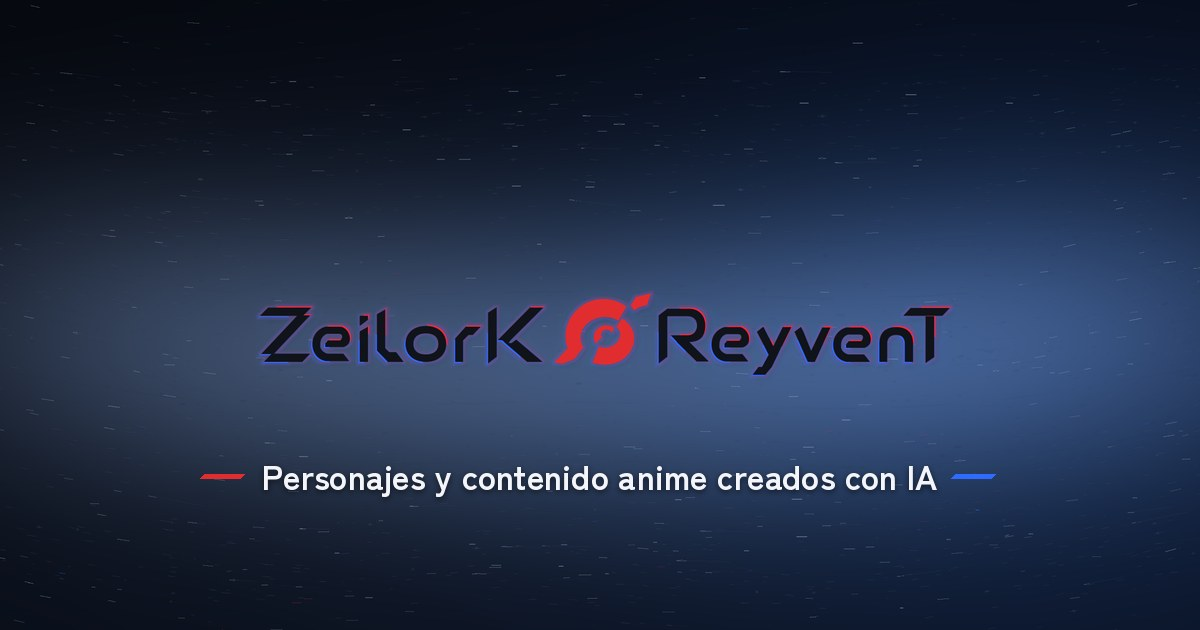
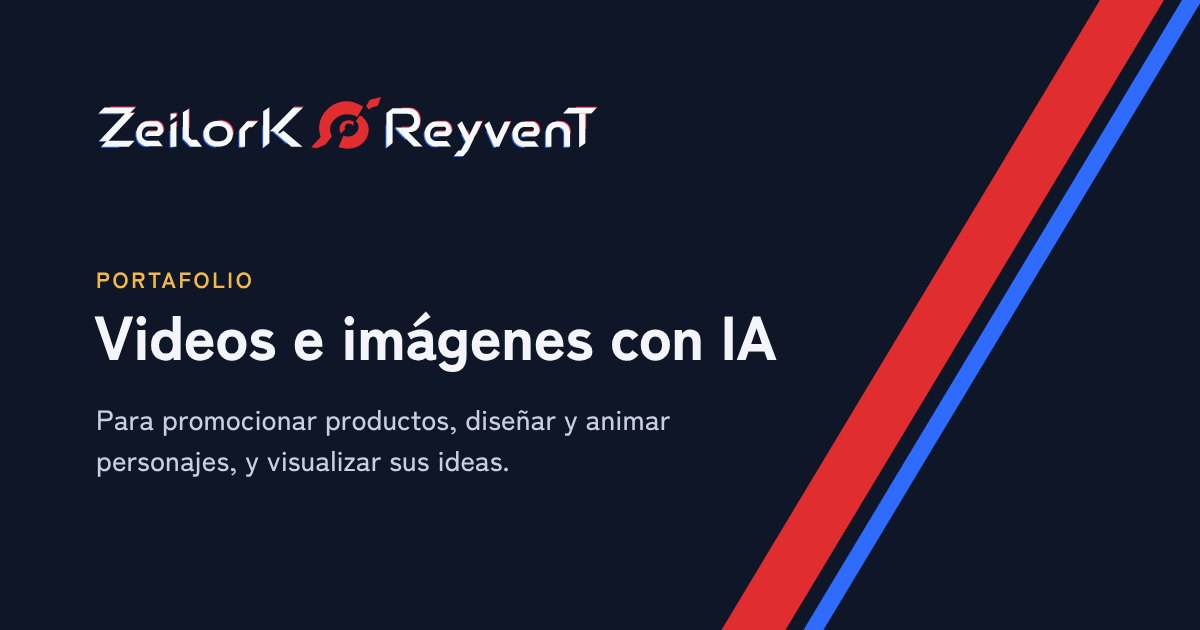
Página principal: portada «Videos e imágenes con IA», precios en colones y menú corregido en iPhone
- Portada con más espacio en el celular y botones lado a lado
- «Servicios y precios» pasa a un resumen con precios «desde» en colones y su equivalente en dólares
- Sale «Proceso» (está en la página de encargos); preguntas y contacto para todos los servicios
- Toda la página de usted; nueva redacción del trabajo de ropa; nueva vista previa del enlace
- El menú «Secciones» ya no se cierra antes de que el toque llegue al enlace en Safari

Claude-Session: https://claude.ai/code/session_0189vgPqYSLf5dmVQo8BQtcm

diff --git a/index.html b/index.html
@@ -3,20 +3,20 @@
 <head>
 <meta charset="utf-8">
 <meta name="viewport" content="width=device-width, initial-scale=1, viewport-fit=cover">
-<title>Personajes anime por encargo · ZeilorK ReyvenT</title>
-<meta name="description" content="Fichas de personajes anime desde $60 USD, ilustraciones y música para tus historias. Creación asistida por IA y revisión personal. Consulta tu proyecto en Fiverr.">
+<title>Videos e imágenes con IA · ZeilorK ReyvenT</title>
+<meta name="description" content="Videos e imágenes con IA para promocionar productos, diseñar y animar personajes, y visualizar sus ideas. Precios fijos en colones y en dólares, con dirección y revisión personal.">
 <meta name="theme-color" content="#0E1628">
 <link rel="canonical" href="https://zeilork-reyvent.github.io/">
 <meta property="og:site_name" content="ZeilorK ReyvenT">
-<meta property="og:title" content="Personajes anime por encargo · ZeilorK ReyvenT">
-<meta property="og:description" content="Fichas técnicas de personajes, ilustraciones, videos y temas musicales originales. Encargos a través de Fiverr.">
+<meta property="og:title" content="Videos e imágenes con IA · ZeilorK ReyvenT">
+<meta property="og:description" content="Videos promocionales, personajes con su ficha técnica, ilustraciones y música, creados con IA. Precios fijos en colones y en dólares.">
 <meta property="og:type" content="website">
 <meta property="og:url" content="https://zeilork-reyvent.github.io/">
 <meta property="og:locale" content="es_LA">
 <meta property="og:image" content="https://zeilork-reyvent.github.io/img/og.jpg">
 <meta property="og:image:width" content="1200">
 <meta property="og:image:height" content="630">
-<meta property="og:image:alt" content="Logo de ZeilorK ReyvenT sobre fondo azul con el texto: Personajes y contenido anime creados con IA">
+<meta property="og:image:alt" content="Logo de ZeilorK ReyvenT con el texto: Videos e imágenes con IA">
 <meta name="twitter:card" content="summary_large_image">
[2 lines of base64/hex data omitted]
@@ -40,7 +40,6 @@
       <a href="#videos">Videos</a>
       <a href="#clientes">Clientes</a>
       <a href="#servicios">Servicios</a>
-      <a href="#proceso">Proceso</a>
       <a href="encargos/">Encargos</a>
     </nav>
     <details class="section-menu" id="section-menu">
@@ -48,7 +47,7 @@
       <nav id="section-links" aria-label="Índice de secciones">
         <a href="#inicio">Inicio</a><a href="#fichas">Fichas de personajes</a>
         <a href="#ilustraciones">Ilustraciones</a><a href="#videos">Videos</a><a href="#clientes">Trabajos para clientes</a>
-        <a href="#servicios">Servicios y precios</a><a href="#proceso">Proceso</a>
+        <a href="#servicios">Servicios y precios</a>
         <a href="#preguntas">Preguntas frecuentes</a><a href="#contacto">Contacto</a><a href="encargos/">Encargos</a>
       </nav>
     </details>
@@ -72,14 +71,13 @@
       </div>
       <div class="hero-content">
         <div class="hero-copy">
-          <p class="eyebrow">Para tus personajes e historias</p>
-          <h1>Diseño de personajes <span>anime por encargo.</span></h1>
-          <p class="hero-description">Fichas de referencia, ilustraciones y música para dar forma a tu mundo. Creadas con IA, con dirección y revisión personal.</p>
+          <h1>Videos e imágenes <span>con IA</span></h1>
+          <p class="hero-description">Para promocionar productos, diseñar y animar personajes, y visualizar sus ideas. Cada encargo lleva mi dirección y revisión personal.</p>
           <div class="hero-actions">
-            <a class="btn" href="#servicios"><span>Ver servicios y precios</span></a>
-            <a class="btn btn-ghost" href="#fichas"><span>Explorar trabajos</span></a>
+            <a class="btn" href="#servicios"><span>Ver tarifas</span></a>
+            <a class="btn btn-ghost" href="#fichas"><span>Ver trabajos</span></a>
           </div>
-          <p class="hero-note">Fichas desde <strong>$60 USD</strong> · Revisiones incluidas</p>
+          <p class="hero-note">Precios fijos · Videos desde <strong>₡12.000</strong> (US$35)</p>
         </div>
         <figure class="hero-preview">
           <a href="#ilustraciones" aria-label="Explorar las ilustraciones de mis personajes">
@@ -96,7 +94,7 @@
     <div class="wrap">
       <div class="sec-head">
         <h2 class="sec">Fichas técnicas</h2>
-        <p class="lead">Seis personajes originales, cada uno con vistas frontal, lateral y posterior, más los detalles del rostro y del vestuario. Toca una ficha para verla ampliada.</p>
+        <p class="lead">Seis personajes originales, cada uno con vistas frontal, lateral y posterior, más los detalles del rostro y del vestuario. Toque una ficha para verla ampliada.</p>
       </div>
       <ul class="grid grid-3 rv">
 <li class="card" style="--i:0"><figure class="fig"><a class="thumb" data-gallery="fichas" data-index="0" aria-label="Ver ampliada: Emily" href="img/emily_full.webp"><img src="img/emily_thumb.webp" width="900" height="506" alt="Ficha técnica de Emily: vistas frontal, lateral y posterior, con detalles del rostro, el peinado y el vestuario" loading="lazy" decoding="async"></a><figcaption class="cap"><b>Emily</b><span>Ficha técnica</span></figcaption></figure></li>
@@ -128,7 +126,7 @@
       <aside class="project-note" aria-labelledby="emily-case-title">
         <div><p class="eyebrow">Proyecto personal · Emily</p><h3 id="emily-case-title">Un personaje, distintas formas de contar su historia.</h3></div>
         <p>La ficha reúne sus vistas y detalles. Las dos escenas con el gato exploran una pequeña secuencia narrativa, mientras que la versión con alas reinterpreta su vestuario. Son muestras de cómo una referencia puede orientar escenas y variantes del mismo personaje.</p>
-        <a class="text-link" href="#servicios">Ver qué puedo crear para tu personaje <span aria-hidden="true">→</span></a>
+        <a class="text-link" href="#servicios">Ver qué puedo crear para su personaje <span aria-hidden="true">→</span></a>
       </aside>
     </div>
   </section>
@@ -139,7 +137,7 @@
     <div class="wrap">
       <div class="sec-head">
         <h2 class="sec">Muestras en video</h2>
-        <p class="lead">Escenas cortas con los personajes en movimiento, con voces y música originales. Dos se reproducen aquí mismo; las demás te llevan a TikTok.</p>
+        <p class="lead">Escenas cortas con los personajes en movimiento, con voces y música originales. Dos se reproducen aquí mismo; las demás lo llevan a TikTok.</p>
       </div>
       <div class="vgrid rv">
 <figure class="vcard card" style="--i:0"><div class="vwrap"><video controls preload="none" poster="img/cover_lugar.webp" playsinline aria-label="Emily y Sharon graban un video juntas en una plaza, con un palo de selfie"><source src="media/lugar-especial.mp4" type="video/mp4"></video><button class="vplay" type="button" aria-label="Reproducir: Emily y Sharon en un lugar especial"><span><svg viewBox="0 0 24 24" aria-hidden="true"><path d="M8 5v14l11-7z"/></svg></span></button></div><figcaption class="cap"><b>Emily y Sharon en un lugar especial</b><span>15 s</span></figcaption></figure>
@@ -188,7 +186,7 @@
           <div class="caso-text">
             <p class="eyebrow">Diseño de ropa</p>
             <h3>Equipo de carreras</h3>
-            <p>Camiseta (frente y espalda) y gorra, y cómo se ven en las prendas. Incluye la foto del carro que aportó la clienta, con la calidad mejorada.</p>
+            <p>Diseños para la camiseta (frente y espalda) y la gorra, con vistas de cómo lucen en las prendas. También mejoré la calidad de la foto del carro que aportó la clienta.</p>
             <p class="caso-meta">Los logos, la placa y los símbolos se difuminaron para esta muestra.</p>
           </div>
         </article>
@@ -217,76 +215,20 @@
     <div class="wrap">
       <div class="sec-head">
         <h2 class="sec">Servicios y precios</h2>
-        <p class="lead">Precios en dólares estadounidenses. Los encargos se gestionan a través de Fiverr.</p>
+        <p class="lead">Precios fijos en colones; desde otros países, en dólares por PayPal.</p>
       </div>
-      <div class="svc-grid">
-        <article class="svc main">
-          <h3>Fichas técnicas de personajes</h3>
-          <p>Una referencia visual de tu personaje: vistas frontal, lateral y posterior, primer plano y detalles de accesorios. Entrega en PNG de alta resolución, según lo descrito en mi gig de Fiverr.</p>
-          <div class="tiers">
-            <div class="tier">
-              <h4>Básico</h4><p class="tier-purpose">Para definir la referencia de tu personaje.</p>
-              <div class="amt">$60<small>USD</small></div>
-              <ul><li>1 ficha técnica con tres vistas</li><li>Primer plano y detalles de accesorios</li><li>Entrega en 7 días</li><li>1 revisión</li></ul>
-              <a class="btn btn-ghost btn-sm" href="https://es.fiverr.com/s/9d954eY" target="_blank" rel="noopener" aria-label="Ver paquete Básico en Fiverr (abre otra pestaña)"><span>Ver Básico en Fiverr <span aria-hidden="true">↗</span></span></a>
-            </div>
-            <div class="tier">
-              <h4>Estándar</h4><p class="tier-purpose">Para mostrar otra faceta de su personalidad.</p>
-              <div class="amt">$75<small>USD</small></div>
-              <ul><li>Todo lo del paquete Básico</li><li>1 primer plano con otra expresión</li><li>Entrega en 6 días</li><li>2 revisiones</li></ul>
-              <a class="btn btn-ghost btn-sm" href="https://es.fiverr.com/s/9d954eY" target="_blank" rel="noopener" aria-label="Ver paquete Estándar en Fiverr (abre otra pestaña)"><span>Ver Estándar en Fiverr <span aria-hidden="true">↗</span></span></a>
-            </div>
-            <div class="tier">
-              <h4>Premium</h4><p class="tier-purpose">Para ampliar los detalles de su diseño.</p>
-              <div class="amt">$100<small>USD</small></div>
-              <ul><li>Todo lo del paquete Estándar</li><li>1 hoja de referencia de accesorios</li><li>Entrega en 5 días</li><li>3 revisiones</li></ul>
-              <a class="btn btn-ghost btn-sm" href="https://es.fiverr.com/s/9d954eY" target="_blank" rel="noopener" aria-label="Ver paquete Premium en Fiverr (abre otra pestaña)"><span>Ver Premium en Fiverr <span aria-hidden="true">↗</span></span></a>
-            </div>
-          </div>
-          <p class="service-note">Los botones abren el mismo gig: allí puedes elegir tu paquete. Los plazos indicados son los normales; la entrega rápida tiene un costo adicional. Antes de pedir, confirma en Fiverr las condiciones vigentes.</p>
-        </article>
-        <article class="svc">
-          <h3>Ilustraciones de personajes en escenas</h3>
-          <p>Tu personaje en una escena a medida, tomando su ficha como referencia para cuidar su identidad visual.</p>
-          <div class="price">Precio según el proyecto</div>
-          <a class="btn btn-ghost btn-sm" href="https://es.fiverr.com/zeilork_reyvent" target="_blank" rel="noopener"><span>Consultar una ilustración ↗</span></a>
-        </article>
-        <article class="svc">
-          <h3>Temas musicales originales para personajes, creados con IA</h3>
-          <p>Una canción original que refleje la personalidad de tu personaje, para tus videos o tu proyecto.</p>
-          <div class="price">Precio según el proyecto</div>
-          <a class="btn btn-ghost btn-sm" href="https://es.fiverr.com/zeilork_reyvent" target="_blank" rel="noopener"><span>Consultar un tema musical ↗</span></a>
-          <button class="text-button" id="btn-sample" type="button"><span>Escuchar una muestra</span>
-            <svg viewBox="0 0 24 24" fill="currentColor" aria-hidden="true"><path d="M8 5v14l11-7z"/></svg></button>
-        </article>
-        <article class="svc">
-          <h3>Proyectos a medida, con consulta previa</h3>
-          <p>Cuéntame qué necesitas crear y para qué lo usarás. Revisamos la viabilidad y acordamos alcance, precio y fecha antes de empezar.</p>
-          <a class="link" href="#contacto">Cuéntame tu idea</a>
-        </article>
-        <article class="svc" style="grid-column:1/-1">
-          <h3>Videos e imágenes con IA</h3>
-          <p>Para promocionar productos, diseñar y animar personajes, y visualizar tus ideas. Precios fijos, confirmación del encargo antes de generar y formulario en línea.</p>
-          <a class="btn btn-ghost btn-sm" href="encargos/"><span>Ver tarifas y hacer un encargo <span aria-hidden="true">→</span></span></a>
-        </article>
+      <ul class="svc-resumen">
+        <li><span class="svc-n"><b>Videos con IA</b><small>De 4 a 30 segundos, en 720p o 1080p</small></span><span class="svc-p"><b><small>desde</small> ₡12.000</b><span class="usd">US$35</span></span></li>
+        <li><span class="svc-n"><b>Imágenes</b><small>De productos, de personajes o de sus ideas</small></span><span class="svc-p"><b><small>desde</small> ₡6.000</b><span class="usd">US$20</span></span></li>
+        <li><span class="svc-n"><b>Personaje con ficha técnica</b><small>2 propuestas de diseño, ficha completa y 4 expresiones</small></span><span class="svc-p"><b>₡45.000</b><span class="usd">US$120</span></span></li>
+        <li><span class="svc-n"><b>Música, narración y efectos</b><small>En archivos aparte, para agregarlos a sus videos</small></span><span class="svc-p"><b><small>desde</small> ₡3.000</b><span class="usd">US$10</span></span></li>
+      </ul>
+      <div class="svc-acciones">
+        <a class="btn" href="encargos/"><span>Ver todas las tarifas y hacer un <span class="nw">encargo <span aria-hidden="true">→</span></span></span></a>
+        <button class="text-button" id="btn-sample" type="button"><span>Escuchar una muestra de música</span>
+          <svg viewBox="0 0 24 24" fill="currentColor" aria-hidden="true"><path d="M8 5v14l11-7z"/></svg></button>
       </div>
-    </div>
-  </section>
-
-  <div class="divider" aria-hidden="true"></div>
-
-  <section class="section" id="proceso">
-    <div class="wrap">
-      <div class="sec-head">
-        <h2 class="sec">Proceso de trabajo</h2>
-        <p class="lead">Cuatro pasos, sin sorpresas.</p>
-      </div>
-      <ol class="steps">
-        <li class="step" style="--i:0"><span class="n" aria-hidden="true">1</span><h3>Me cuentas tu idea</h3><p>Qué personaje o contenido necesitas, para qué lo quieres y qué referencias tienes.</p></li>
-        <li class="step" style="--i:1"><span class="n" aria-hidden="true">2</span><h3>Acordamos los detalles</h3><p>Reviso tus referencias y confirmo alcance, archivos, precio y fecha antes de empezar.</p></li>
-        <li class="step" style="--i:2"><span class="n" aria-hidden="true">3</span><h3>Creo el contenido</h3><p>Genero, reviso y ajusto el material hasta que coincide con lo acordado.</p></li>
-        <li class="step" style="--i:3"><span class="n" aria-hidden="true">4</span><h3>Lo entrego con revisiones incluidas</h3><p>Recibes los archivos finales y ajustamos lo que haga falta dentro de las revisiones de tu paquete.</p></li>
-      </ol>
+      <p class="svc-fiverr">¿Prefiere contratar por Fiverr? Ahí también ofrezco las fichas de personajes. <a class="text-link" href="https://es.fiverr.com/s/9d954eY" target="_blank" rel="noopener">Ver en Fiverr <span aria-hidden="true">↗</span><span class="sr"> (abre otra pestaña)</span></a></p>
     </div>
   </section>
 
@@ -294,12 +236,14 @@
 
   <section class="section" id="preguntas">
     <div class="wrap faq-wrap">
-      <div class="sec-head"><p class="eyebrow">Antes de encargar</p><h2 class="sec">Preguntas frecuentes</h2><p class="lead">Lo esencial para preparar tu idea.</p></div>
+      <div class="sec-head"><p class="eyebrow">Antes de encargar</p><h2 class="sec">Preguntas frecuentes</h2><p class="lead">Lo esencial para preparar su idea.</p></div>
       <div class="faq-list">
-        <details><summary>¿Necesito tener un dibujo o referencias?</summary><p>No es obligatorio. Puedes empezar con una descripción de la personalidad, la historia y el vestuario del personaje. Si tienes dibujos o imágenes de referencia, también ayudan a entender lo que buscas.</p></details>
-        <details><summary>¿Qué archivos recibiré con una ficha?</summary><p>Archivos PNG de alta resolución. Si necesitas una resolución concreta, otro formato o un archivo editable, consúltamelo antes de pedir para confirmar si puedo entregarlo.</p></details>
-        <details><summary>¿Cómo se utilizan las revisiones?</summary><p>Cada paquete indica cuántas revisiones incluye. Antes de empezar acordamos el diseño y el alcance; si quieres cambiar la idea inicial o añadir material, lo revisamos juntos para confirmar qué requiere.</p></details>
-        <details><summary>¿Las imágenes se crean con IA?</summary><p>Sí. Yo dirijo la creación, selecciono los resultados y reviso los detalles. La inteligencia artificial forma parte del proceso y está indicada tanto aquí como en mi servicio de Fiverr.</p></details>
+        <details><summary>¿Necesito tener imágenes o referencias?</summary><p>No es obligatorio: puede partir de una idea. Si tiene fotos del producto o dibujos del personaje, ayudan a que el resultado se parezca a lo que busca.</p></details>
+        <details><summary>¿Cuánto tarda un encargo?</summary><p>Suele estar listo de 2 a 4 días después del primer pago. El plazo exacto se lo indico en la confirmación del encargo, antes de cobrarle.</p></details>
+        <details><summary>¿Puedo pedir cambios?</summary><p>Sí. Los personajes incluyen 2 rondas de cambios, y las imágenes sueltas, 1. En los videos, un cambio después de la entrega se hace generando el video de nuevo, con el precio que indican las tarifas.</p></details>
+        <details><summary>¿Qué archivos recibo?</summary><p>Los videos, en MP4; las imágenes y las fichas de personajes, en PNG de alta resolución; la música, la narración y los efectos, en archivos de audio aparte. Si necesita otro formato, consúltemelo antes de encargar.</p></details>
+        <details><summary>¿Cómo se paga?</summary><p>En Costa Rica, por SINPE Móvil; desde otros países, en dólares por PayPal. La mitad se paga al confirmar el encargo, para empezar, y la otra mitad, antes de recibir los archivos finales.</p></details>
+        <details><summary>¿Todo se crea con IA?</summary><p>Sí. Los videos, las imágenes y la música se crean con herramientas de inteligencia artificial, a partir de las fotos o ideas que usted aporta. Yo dirijo cada encargo, elijo los resultados y reviso los detalles.</p></details>
       </div>
     </div>
   </section>
@@ -310,7 +254,7 @@
         <svg class="usym-notice" viewBox="0 0 1095 899" xmlns="http://www.w3.org/2000/svg" aria-hidden="true"><g fill="#E12D2F"><path d="M 52,786 L 194,635 C 139,480 180,311 329,192 C 472,78 675,82 820,190 L 734,340 C 633,279 504,290 414,361 C 325,432 310,539 361,624 L 265,748 L 137,800 Z"/><path d="M 802,331 L 835,365 C 916,446 925,568 857,672 C 773,801 609,837 458,787 L 528,616 C 616,649 705,610 740,538 C 765,487 751,438 712,405 L 768,318 Z"/><path d="M 685,415 C 631,374 554,383 507,431 C 465,474 461,535 492,583 L 557,517 C 544,496 547,468 567,450 C 591,429 626,432 652,453 L 670,469 Z"/><path d="M 918,88 L 1082,47 L 1038,174 L 958,196 L 900,230 L 864,178 Z"/></g></svg>
         <div>
           <h2>Contenido creado con inteligencia artificial</h2>
-          <p>Todo lo que ves en este portafolio se crea con herramientas de inteligencia artificial. En los trabajos para clientes también uso las fotos y materiales que ellos aportan. Yo dirijo cada proyecto: defino los personajes, el estilo y los detalles, y reviso cada resultado antes de entregarlo. Te lo comparto desde el principio porque quiero ser completamente transparente contigo sobre mi forma de trabajar.</p>
+          <p>Todo lo que ve en este portafolio se crea con herramientas de inteligencia artificial. En los trabajos para clientes también uso las fotos y materiales que ellos aportan. Yo dirijo cada proyecto: defino los personajes, el estilo y los detalles, y reviso cada resultado antes de entregarlo. Se lo comparto desde el principio porque quiero ser completamente transparente con usted sobre mi forma de trabajar.</p>
         </div>
       </div>
     </div>
@@ -323,13 +267,15 @@
     <svg class="wm-sym" viewBox="0 0 1095 899" xmlns="http://www.w3.org/2000/svg" aria-hidden="true"><g fill="#E12D2F"><path d="M 52,786 L 194,635 C 139,480 180,311 329,192 C 472,78 675,82 820,190 L 734,340 C 633,279 504,290 414,361 C 325,432 310,539 361,624 L 265,748 L 137,800 Z"/><path d="M 802,331 L 835,365 C 916,446 925,568 857,672 C 773,801 609,837 458,787 L 528,616 C 616,649 705,610 740,538 C 765,487 751,438 712,405 L 768,318 Z"/><path d="M 685,415 C 631,374 554,383 507,431 C 465,474 461,535 492,583 L 557,517 C 544,496 547,468 567,450 C 591,429 626,432 652,453 L 670,469 Z"/><path d="M 918,88 L 1082,47 L 1038,174 L 958,196 L 900,230 L 864,178 Z"/></g></svg>
     <div class="wrap rv">
       <div class="card" style="--i:0"><svg class="usym-cierre" viewBox="0 0 1095 899" xmlns="http://www.w3.org/2000/svg" aria-hidden="true"><g fill="#E12D2F"><path d="M 52,786 L 194,635 C 139,480 180,311 329,192 C 472,78 675,82 820,190 L 734,340 C 633,279 504,290 414,361 C 325,432 310,539 361,624 L 265,748 L 137,800 Z"/><path d="M 802,331 L 835,365 C 916,446 925,568 857,672 C 773,801 609,837 458,787 L 528,616 C 616,649 705,610 740,538 C 765,487 751,438 712,405 L 768,318 Z"/><path d="M 685,415 C 631,374 554,383 507,431 C 465,474 461,535 492,583 L 557,517 C 544,496 547,468 567,450 C 591,429 626,432 652,453 L 670,469 Z"/><path d="M 918,88 L 1082,47 L 1038,174 L 958,196 L 900,230 L 864,178 Z"/></g></svg></div>
-      <h2 class="card" style="--i:1">Cuéntame tu idea</h2>
-      <p class="lead card" style="--i:2">Cuéntame cómo es tu personaje, qué quieres crear y qué referencias tienes. Revisamos juntos el siguiente paso por Fiverr.</p>
+      <h2 class="card" style="--i:1">Cuénteme su idea</h2>
+      <p class="lead card" style="--i:2">Llene la solicitud en la página de encargos o escríbame por WhatsApp. Si prefiere contratar por Fiverr, también estoy ahí.</p>
       <div class="cta-row card" style="--i:3">
-        <a class="btn" href="https://es.fiverr.com/zeilork_reyvent" target="_blank" rel="noopener"><span>Consultar mi proyecto en Fiverr</span>
-          <svg viewBox="0 0 24 24" fill="none" stroke="currentColor" stroke-width="2.2" stroke-linecap="round" stroke-linejoin="round" aria-hidden="true"><path d="M7 17L17 7M9 7h8v8"/></svg></a>
+        <a class="btn" href="encargos/"><span>Hacer un encargo</span></a>
+        <a class="btn btn-ghost" href="https://wa.me/50687464715" target="_blank" rel="noopener" aria-label="Escribirme por WhatsApp (abre otra pestaña)"><span><img class="ico" src="encargos/whatsapp.svg" alt="" width="20" height="20" loading="lazy">WhatsApp</span></a>
+        <a class="btn btn-ghost" href="https://es.fiverr.com/zeilork_reyvent" target="_blank" rel="noopener"><span>Fiverr</span>
+          <svg viewBox="0 0 24 24" fill="none" stroke="currentColor" stroke-width="2.2" stroke-linecap="round" stroke-linejoin="round" aria-hidden="true"><path d="M7 17L17 7M9 7h8v8"/></svg><span class="sr"> (abre otra pestaña)</span></a>
         <a class="btn btn-ghost" href="https://www.tiktok.com/@zeilork_reyvent" target="_blank" rel="noopener"><span>Ver mi TikTok</span>
-          <svg viewBox="0 0 24 24" fill="none" stroke="currentColor" stroke-width="2.2" stroke-linecap="round" stroke-linejoin="round" aria-hidden="true"><path d="M7 17L17 7M9 7h8v8"/></svg></a>
+          <svg viewBox="0 0 24 24" fill="none" stroke="currentColor" stroke-width="2.2" stroke-linecap="round" stroke-linejoin="round" aria-hidden="true"><path d="M7 17L17 7M9 7h8v8"/></svg><span class="sr"> (abre otra pestaña)</span></a>
       </div>
     </div>
   </section>
@@ -339,7 +285,7 @@
 
 <div class="mp" id="mp">
   <div class="mp-panel" id="mp-panel" role="region" aria-label="Reproductor de música" inert>
-    <div class="mp-head"><b>Música original</b><span>Temas creados con IA para mis personajes. Elige cuál escuchar.</span></div>
+    <div class="mp-head"><b>Música original</b><span>Temas creados con IA para mis personajes. Elija cuál escuchar.</span></div>
     <div class="mp-list">
       <button class="mp-track" type="button" data-track="lazos" aria-pressed="false"><span class="mp-eq" aria-hidden="true"><i></i><i></i><i></i></span><b>Lazos sinceros</b><span class="mp-type">Tema tranquilo</span></button>
       <button class="mp-track" type="button" data-track="victoria" aria-pressed="false"><span class="mp-eq" aria-hidden="true"><i></i><i></i><i></i></span><b>Victoria flameante</b><span class="mp-type">Opening instrumental</span></button>
@@ -349,7 +295,7 @@
     <div class="mp-ctrl">
       <button class="mp-btn" id="mp-play" type="button" aria-label="Reproducir" disabled><svg viewBox="0 0 24 24" aria-hidden="true"><path id="mp-play-icon" d="M8 5v14l11-7z"/></svg></button>
       <span class="mp-time" id="mp-time">0:00 / 0:00</span>
-      <button class="mp-btn mp-rep" id="mp-rep" type="button" data-mode="0" title="Sin repetir" aria-label="Repetición: sin repetir. Toca para cambiar el modo"><svg viewBox="0 0 24 24" aria-hidden="true"><g fill="none" stroke="currentColor" stroke-width="2" stroke-linecap="round" stroke-linejoin="round"><path d="M17 2l4 4-4 4"/><path d="M3 11V9a4 4 0 0 1 4-4h14"/><path d="M7 22l-4-4 4-4"/><path d="M21 13v2a4 4 0 0 1-4 4H3"/></g><text class="rep-one" x="12" y="15.4" text-anchor="middle">1</text></svg></button>
+      <button class="mp-btn mp-rep" id="mp-rep" type="button" data-mode="0" title="Sin repetir" aria-label="Repetición: sin repetir. Toque para cambiar el modo"><svg viewBox="0 0 24 24" aria-hidden="true"><g fill="none" stroke="currentColor" stroke-width="2" stroke-linecap="round" stroke-linejoin="round"><path d="M17 2l4 4-4 4"/><path d="M3 11V9a4 4 0 0 1 4-4h14"/><path d="M7 22l-4-4 4-4"/><path d="M21 13v2a4 4 0 0 1-4 4H3"/></g><text class="rep-one" x="12" y="15.4" text-anchor="middle">1</text></svg></button>
     </div>
   </div>
   <div class="mp-row">

diff --git a/assets/main.js b/assets/main.js
@@ -123,17 +123,24 @@ document.documentElement.classList.add('js');
   /* Native section index: links work even without JavaScript. */
   var sectionMenu = document.getElementById('section-menu'), menuSummary = sectionMenu.querySelector('summary');
   sectionMenu.querySelectorAll('a').forEach(function(link){
-    link.addEventListener('click', function(){
+    link.addEventListener('click', function(e){
       sectionMenu.open = false;
-      var target = document.querySelector(link.getAttribute('href'));
-      if (target){ target.setAttribute('tabindex', '-1'); target.focus({preventScroll:true}); }
+      var href = link.getAttribute('href');
+      if (href.charAt(0) !== '#') return;                 /* «Encargos» abre la otra página */
+      var target = document.querySelector(href);
+      if (!target) return;
+      e.preventDefault();                                 /* el desplazamiento se hace aquí, igual en todos los navegadores */
+      var margen = parseFloat(getComputedStyle(document.documentElement).scrollPaddingTop) || 76;
+      window.scrollTo({ top: Math.max(0, target.getBoundingClientRect().top + window.pageYOffset - margen), behavior: reduced ? 'auto' : 'smooth' });
+      if (history.pushState) history.pushState(null, '', href);
+      target.setAttribute('tabindex', '-1'); target.focus({ preventScroll: true });
     });
   });
   sectionMenu.addEventListener('keydown', function(e){
     if (e.key === 'Escape'){ sectionMenu.open = false; menuSummary.focus(); }
   });
-  document.addEventListener('click', function(e){ if (!sectionMenu.contains(e.target)) sectionMenu.open = false; });
-  sectionMenu.addEventListener('focusout', function(e){ if (!sectionMenu.contains(e.relatedTarget)) sectionMenu.open = false; });
+  document.addEventListener('pointerdown', function(e){ if (sectionMenu.open && !sectionMenu.contains(e.target)) sectionMenu.open = false; });
+  sectionMenu.addEventListener('focusout', function(e){ if (e.relatedTarget && !sectionMenu.contains(e.relatedTarget)) sectionMenu.open = false; });
   window.matchMedia('(min-width: 1001px)').addEventListener('change', function(e){ if (e.matches) sectionMenu.open = false; });
 
   /* Reveals */
@@ -205,7 +212,7 @@ document.documentElement.classList.add('js');
   mpPlay.addEventListener('click', function(){ if (!cur) return; audio.paused ? play(cur) : pause(); });
   mpRep.addEventListener('click', function(){
     repeatMode = (repeatMode + 1) % 3; mpRep.dataset.mode = repeatMode;
-    mpRep.title = REP_LABELS[repeatMode]; mpRep.setAttribute('aria-label', 'Repetición: ' + REP_ARIA[repeatMode] + '. Toca para cambiar el modo');
+    mpRep.title = REP_LABELS[repeatMode]; mpRep.setAttribute('aria-label', 'Repetición: ' + REP_ARIA[repeatMode] + '. Toque para cambiar el modo');
     showToast(REP_LABELS[repeatMode]);
   });
   audio.addEventListener('ended', function(){

diff --git a/assets/styles.css b/assets/styles.css
@@ -444,3 +444,29 @@ html:not(.js) .mp,html:not(.js) #btn-sample{display:none}
 @media (max-width:820px){.caso{grid-template-columns:1fr}.caso .vwrap-v{max-width:340px}}
 @media (max-width:420px){.par{grid-template-columns:1fr}}
 /* clientes:fin */
+/* v7:inicio */
+/* Portada: «con IA» en su propia línea; más aire en el celular, botones lado a lado */
+.hero-copy h1 span{display:block}
+@media(max-width:760px){.hero-content{margin-top:40px;gap:48px}.hero-description{margin-top:20px;line-height:1.7}.hero-actions{margin-top:30px}.hero-note{margin-top:20px}}
+@media(max-width:500px){.hero-in{padding-top:96px;padding-bottom:52px}.hero-copy h1{font-size:clamp(28px,8.4vw,34px)}.hero-actions{gap:12px;flex-wrap:nowrap}.hero-actions .btn{flex:1 1 0;min-width:0;padding:15px 12px}}
+/* Servicios y precios: resumen con precios «desde» */
+.svc-resumen{list-style:none;margin:0;padding:0;max-width:860px;background:var(--surface);border:1px solid var(--line);border-radius:18px;overflow:hidden;position:relative;z-index:1}
+.svc-resumen li{display:flex;justify-content:space-between;align-items:center;gap:20px;padding:20px 26px;border-top:1px solid var(--line)}
+.svc-resumen li:first-child{border-top:0}
+.svc-n{display:flex;flex-direction:column;gap:4px;min-width:0}
+.svc-n b{font-size:18px;font-weight:700;color:var(--text);line-height:1.3}
+.svc-n small{font-size:14px;color:var(--muted);line-height:1.5}
+.svc-p{display:flex;flex-direction:column;align-items:flex-end;text-align:right;flex:none}
+.svc-p b{color:var(--gold);font-weight:900;font-size:22px;letter-spacing:-.01em;white-space:nowrap;line-height:1.2}
+.svc-p b small{font-size:13px;font-weight:700;margin-right:6px}
+.svc-p .usd{font-size:13px;color:var(--muted);white-space:nowrap;margin-top:2px}
+.svc-acciones{display:flex;flex-wrap:wrap;align-items:center;gap:10px 26px;margin-top:28px;position:relative;z-index:1}
+.svc-fiverr{margin-top:16px;color:var(--muted);font-size:15px;line-height:1.7;max-width:70ch;position:relative;z-index:1}
+@media(max-width:500px){.svc-resumen li{padding:16px 16px;gap:14px}.svc-n b{font-size:16px}.svc-n small{font-size:13px}.svc-p b{font-size:19px}.svc-acciones .btn{width:100%}}
+/* Contacto: cuatro botones; en el celular, en dos columnas */
+.btn .ico{display:inline-block;width:20px;height:20px;flex:none;margin-right:8px;vertical-align:-4px}
+.nw{white-space:nowrap}
+.svc-acciones .btn>span{text-align:center}
+@media(max-width:500px){.cierre .cta-row{display:grid;grid-template-columns:1fr 1fr;gap:12px;padding:0 4px}.cierre .cta-row .btn{padding:15px 10px;font-size:14px;min-width:0}}
+@media(max-width:360px){.cierre .cta-row .btn svg{display:none}}
+/* v7:fin */
